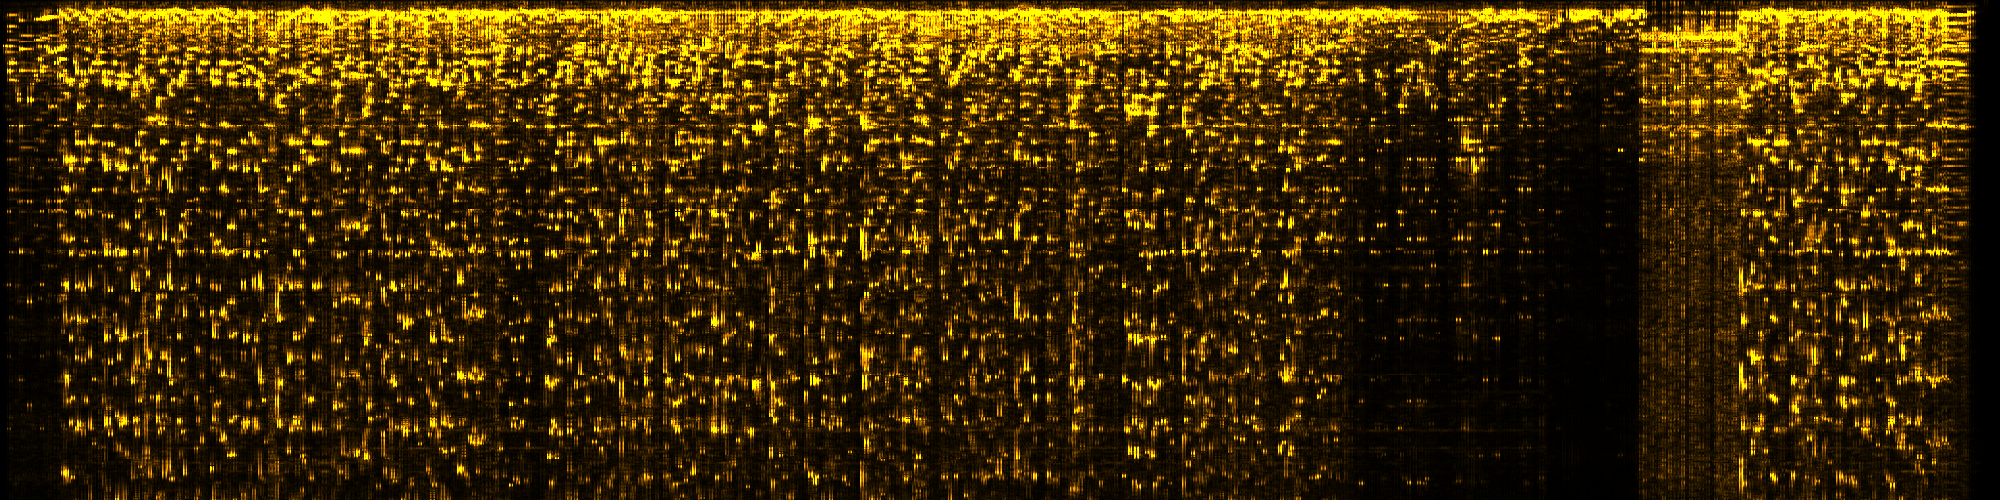
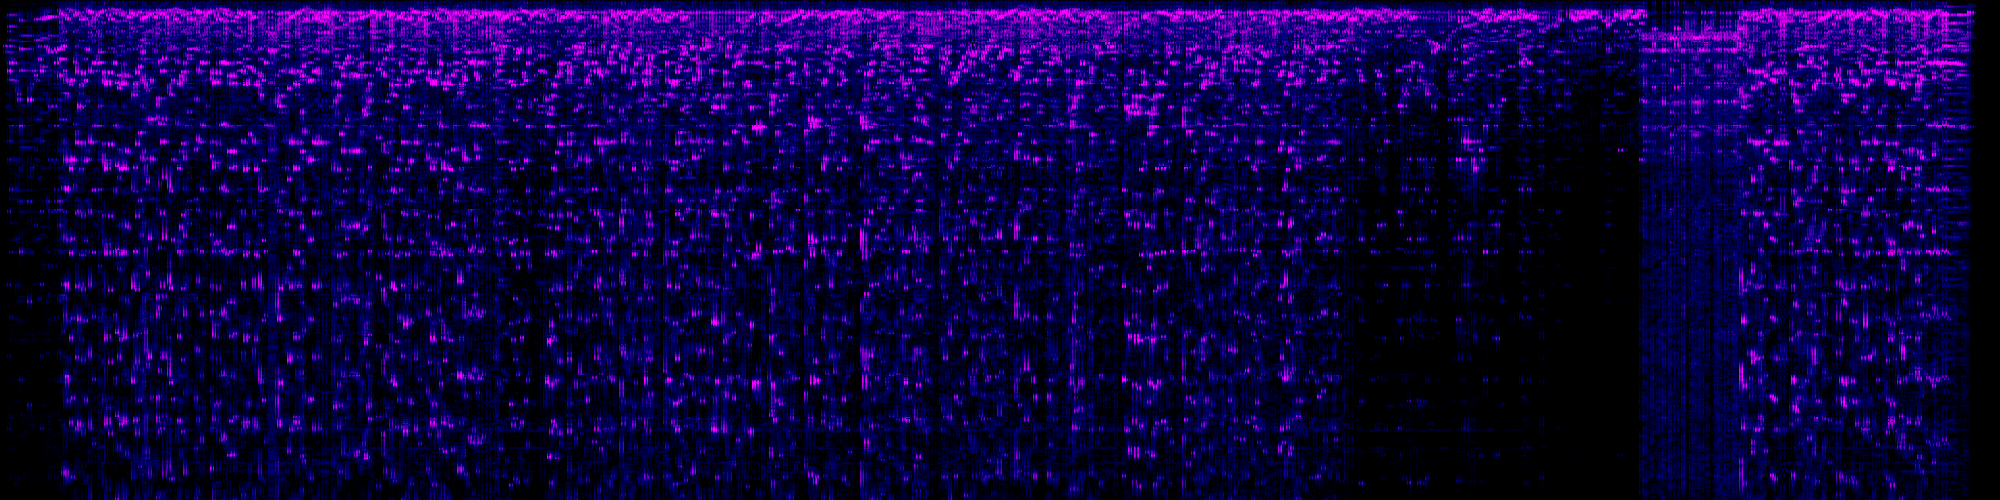
Add examples building into VST plugins

diff --git a/crates/augmented/application/audio-processor-standalone/src/standalone_vst.rs b/crates/augmented/application/audio-processor-standalone/src/standalone_vst.rs
@@ -1,0 +1,119 @@
+use crate::{StandaloneAudioOnlyProcessor, StandaloneProcessor, StandaloneProcessorImpl};
+use audio_processor_traits::audio_buffer::OwnedAudioBuffer;
+use audio_processor_traits::{AudioBuffer, AudioProcessor, AudioProcessorSettings, VecAudioBuffer};
+use vst::buffer::AudioBuffer as VSTAudioBuffer;
+use vst::plugin::{HostCallback, Info};
+
+pub use vst;
+
+/// TODO - Extend this with VST helpers calling into the host callback.
+pub struct StandalonePluginContext {}
+
+pub trait StandaloneProcessorFactory {
+    fn new_for_host(context: StandalonePluginContext) -> Self;
+}
+
+impl<D: Default> StandaloneProcessorFactory for D {
+    fn new_for_host(_context: StandalonePluginContext) -> Self {
+        Self::default()
+    }
+}
+
+impl<P> StandaloneProcessorFactory for StandaloneProcessorImpl<P>
+where
+    P: StandaloneProcessorFactory + AudioProcessor<SampleType = f32>,
+{
+    fn new_for_host(context: StandalonePluginContext) -> Self {
+        StandaloneProcessorImpl::new(P::new_for_host(context))
+    }
+}
+
+impl<P> StandaloneProcessorFactory for StandaloneAudioOnlyProcessor<P>
+where
+    P: StandaloneProcessorFactory + AudioProcessor<SampleType = f32>,
+{
+    fn new_for_host(context: StandalonePluginContext) -> Self {
+        StandaloneAudioOnlyProcessor::new(P::new_for_host(context))
+    }
+}
+
+pub struct StandaloneVSTPlugin<SP> {
+    processor: SP,
+    buffer: VecAudioBuffer<f32>,
+    settings: AudioProcessorSettings,
+}
+
+#[macro_export]
+macro_rules! standalone_vst {
+    ($t:ty) => {
+        ::audio_processor_standalone::standalone_vst::vst::plugin_main!(
+            ::audio_processor_standalone::standalone_vst::StandaloneVSTPlugin<
+                ::audio_processor_standalone::standalone_processor::StandaloneAudioOnlyProcessor<
+                    $t,
+                >,
+            >
+        );
+    };
+}
+
+impl<Processor> vst::plugin::Plugin for StandaloneVSTPlugin<Processor>
+where
+    Processor: StandaloneProcessor + StandaloneProcessorFactory,
+    <Processor as StandaloneProcessor>::Processor: AudioProcessor<SampleType = f32>,
+{
+    fn get_info(&self) -> Info {
+        Info { ..Info::default() }
+    }
+
+    fn new(_host: HostCallback) -> Self
+    where
+        Self: Sized,
+    {
+        Self {
+            processor: Processor::new_for_host(StandalonePluginContext {}),
+            buffer: VecAudioBuffer::new(),
+            settings: AudioProcessorSettings::default(),
+        }
+    }
+
+    fn set_sample_rate(&mut self, rate: f32) {
+        self.settings.sample_rate = rate;
+        self.processor.processor().prepare(self.settings);
+    }
+
+    fn set_block_size(&mut self, size: i64) {
+        self.buffer.resize(2, size as usize, 0.0);
+        self.settings.block_size = size as usize;
+        self.processor.processor().prepare(self.settings);
+    }
+
+    fn resume(&mut self) {
+        self.processor.processor().prepare(self.settings);
+    }
+
+    fn process(&mut self, buffer: &mut VSTAudioBuffer<f32>) {
+        let num_samples = buffer.samples();
+        let (inputs, mut outputs) = buffer.split();
+
+        self.buffer.resize(2, num_samples as usize, 0.0);
+        {
+            let buffer_slice = self.buffer.slice_mut();
+            for (channel, input) in inputs.into_iter().take(2).enumerate() {
+                for (index, sample) in input.iter().enumerate() {
+                    buffer_slice[index * 2 + channel] = *sample;
+                }
+            }
+        }
+
+        self.processor.processor().process(&mut self.buffer);
+
+        {
+            let buffer_slice = self.buffer.slice();
+            for (channel, output) in outputs.into_iter().take(2).enumerate() {
+                for (index, sample) in output.iter_mut().enumerate() {
+                    *sample = buffer_slice[index * 2 + channel];
+                }
+            }
+        }
+    }
+}

diff --git a/crates/augmented/development/augmented-dev-cli/src/services/build_command_service/mod.rs b/crates/augmented/development/augmented-dev-cli/src/services/build_command_service/mod.rs
@@ -36,7 +36,13 @@ impl Default for BuildCommandService {
 }
 
 impl BuildCommandService {
-    pub fn run_build(&mut self, crate_path: &str) {
+    pub fn run_build(&mut self, crate_path: &str, example_name: Option<&str>) {
+        log::info!(
+            "Starting build crate={} example={:?}",
+            crate_path,
+            example_name
+        );
+
         let cargo_toml = self.cargo_toml_reader.read(crate_path);
         let release_key = self
             .git_release_provider
@@ -47,11 +53,14 @@ impl BuildCommandService {
             .metadata
             .as_ref()
             .expect("No package.metadata section found");
-        let app = metadata
-            .app
-            .as_ref()
-            .expect("No package.metadata.app section found");
-        let public_path = self.get_public_path(&release_key, &app.public_name);
+        let public_name = example_name.unwrap_or_else(|| {
+            let app = metadata
+                .app
+                .as_ref()
+                .expect("No package.metadata.app section found");
+            &app.public_name
+        });
+        let public_path = self.get_public_path(&release_key, public_name);
 
         let release_json = ReleaseJson {
             name: cargo_toml.package.name.clone(),
@@ -66,12 +75,13 @@ impl BuildCommandService {
         log::info!("Read Cargo.toml:\n{:#?}", cargo_toml);
 
         // Force the package to be built
-        BuildCommandService::force_build(crate_path, &cargo_toml);
+        BuildCommandService::force_build(crate_path, &cargo_toml, &example_name);
 
         if let Some(local_package) = self.packager_service.create_local_package(PackagerInput {
             crate_path,
             cargo_toml: &cargo_toml,
             release_json: &release_json,
+            example_name,
         }) {
             self.release_service.release(ReleaseInput {
                 cargo_toml: &cargo_toml,
@@ -81,12 +91,19 @@ impl BuildCommandService {
         }
     }
 
-    fn force_build(crate_path: &str, cargo_toml: &CargoToml) {
+    fn force_build(crate_path: &str, cargo_toml: &CargoToml, example_name: &Option<&str>) {
         log::info!("Forcing a build of \"{}\"", cargo_toml.package.name);
         {
             let current = std::env::current_dir().unwrap();
             std::env::set_current_dir(crate_path).unwrap();
-            spawn!(cargo build --release).unwrap().wait().unwrap();
+            if let Some(example) = example_name {
+                spawn!(cargo build --release --example ${example})
+                    .unwrap()
+                    .wait()
+                    .unwrap();
+            } else {
+                spawn!(cargo build --release).unwrap().wait().unwrap();
+            }
             std::env::set_current_dir(current).unwrap();
         }
     }

diff --git a/crates/augmented/development/augmented-dev-cli/src/services/build_command_service/packager_service/vst_handler.rs b/crates/augmented/development/augmented-dev-cli/src/services/build_command_service/packager_service/vst_handler.rs
@@ -41,17 +41,22 @@ impl VstHandler {
             .to_file_xml(plist_path)
             .expect("Failed to write plist file");
 
-        let source_dylib_path = format!(
-            "./target/release/lib{}.dylib",
-            input
-                .cargo_toml
-                .lib
-                .as_ref()
-                .expect("VST requires a lib")
-                .name
-                .as_ref()
-                .expect("VST lib require a name")
-        );
+        let source_dylib_path = input
+            .example_name
+            .map(|example| format!("./target/release/examples/lib{}.dylib", example))
+            .unwrap_or_else(|| {
+                format!(
+                    "./target/release/lib{}.dylib",
+                    input
+                        .cargo_toml
+                        .lib
+                        .as_ref()
+                        .expect("VST requires a lib")
+                        .name
+                        .as_ref()
+                        .expect("VST lib require a name")
+                )
+            });
         let target_dylib_path =
             output_path.join(format!("Contents/MacOS/{}", input.cargo_toml.package.name));
         log::info!(

diff --git a/crates/augmented/development/augmented-dev-cli/src/main.rs b/crates/augmented/development/augmented-dev-cli/src/main.rs
@@ -34,6 +34,7 @@ fn main() {
         .subcommand(
             clap::App::new("build")
                 .about("Build a release package for a given app")
+                .arg(clap::Arg::from("--example=[EXAMPLE] 'Example name'"))
                 .arg(clap::Arg::from("-c, --crate=<PATH> 'Crate path'")),
         );
 
@@ -45,7 +46,10 @@ fn main() {
     } else if matches.is_present("build") {
         let matches = matches.subcommand_matches("build").unwrap();
         let mut build_service = services::BuildCommandService::default();
-        build_service.run_build(matches.value_of("crate").unwrap());
+        let crate_path = matches.value_of("crate").unwrap();
+        let example_name = matches.value_of("example");
+
+        build_service.run_build(crate_path, example_name);
     } else if matches.is_present("test-snapshots") {
         let matches = matches.subcommand_matches("test-snapshots").unwrap();
         run_all_snapshot_tests(Default::default(), matches.is_present("update-snapshots"));

diff --git a/crates/augmented/audio/audio-processor-analysis/examples/draw_spectogram.rs b/crates/augmented/audio/audio-processor-analysis/examples/draw_spectogram.rs
@@ -92,8 +92,11 @@ fn main() {
                 add_y(y_bin_idx + 1, 1.0 - y_delta);
             }
 
-            let red_f = drawing_magnitude * 255.0 / 20.0;
-            let pixel = image::Rgb([red_f as u8, (red_f * 0.6) as u8, 0]);
+            let ratio = 2.0 * (drawing_magnitude.log10() / 2.0);
+            let red = (255.0 * (ratio - 1.0)).floor();
+            let blue = 0.0; // (255.0 * (1.0 - ratio)).floor();
+            let green = (255.0 * (ratio * 0.5)).floor();
+            let pixel = image::Rgb([red as u8, blue as u8, green as u8]);
             img[(x, y)] = pixel;
         }
     }

diff --git a/crates/augmented/development/augmented-dev-cli/src/services/build_command_service/packager_service/mod.rs b/crates/augmented/development/augmented-dev-cli/src/services/build_command_service/packager_service/mod.rs
@@ -15,6 +15,7 @@ pub struct PackagerInput<'a> {
     pub crate_path: &'a str,
     pub cargo_toml: &'a CargoToml,
     pub release_json: &'a ReleaseJson,
+    pub example_name: Option<&'a str>,
 }
 
 /// Represents an App package that has been built
@@ -54,6 +55,7 @@ impl PackagerService for PackagerServiceImpl {
                 MacosAppConfig::Vst(vst) => VstHandler::handle(target_path, &input, vst),
             }
         } else {
+            log::warn!("There's no package config");
             None
         }
     }

diff --git a/crates/augmented/application/audio-processor-standalone/src/lib.rs b/crates/augmented/application/audio-processor-standalone/src/lib.rs
@@ -11,9 +11,10 @@ pub use standalone_processor::StandaloneProcessor;
 pub use standalone_processor::StandaloneProcessorImpl;
 
 pub mod offline;
-mod options;
-mod standalone_cpal;
-mod standalone_processor;
+pub mod options;
+pub mod standalone_cpal;
+pub mod standalone_processor;
+pub mod standalone_vst;
 
 /// Run an [`AudioProcessor`] / [`MidiEventHandler`] as a stand-alone cpal app and forward MIDI
 /// messages received on all inputs to it.

diff --git a/crates/augmented/audio/audio-processor-time/examples/delay.rs b/crates/augmented/audio/audio-processor-time/examples/delay.rs
@@ -2,6 +2,5 @@ use audio_processor_time::MonoDelayProcessor;
 
 fn main() {
     let delay = MonoDelayProcessor::default();
-    delay.handle().set_feedback(0.3);
     audio_processor_standalone::audio_processor_main(delay);
 }

diff --git a/crates/augmented/audio/audio-processor-time/examples/delay_vst.rs b/crates/augmented/audio/audio-processor-time/examples/delay_vst.rs
@@ -1,0 +1,3 @@
+use audio_processor_time::MonoDelayProcessor;
+
+audio_processor_standalone::standalone_vst!(MonoDelayProcessor<f32>);
